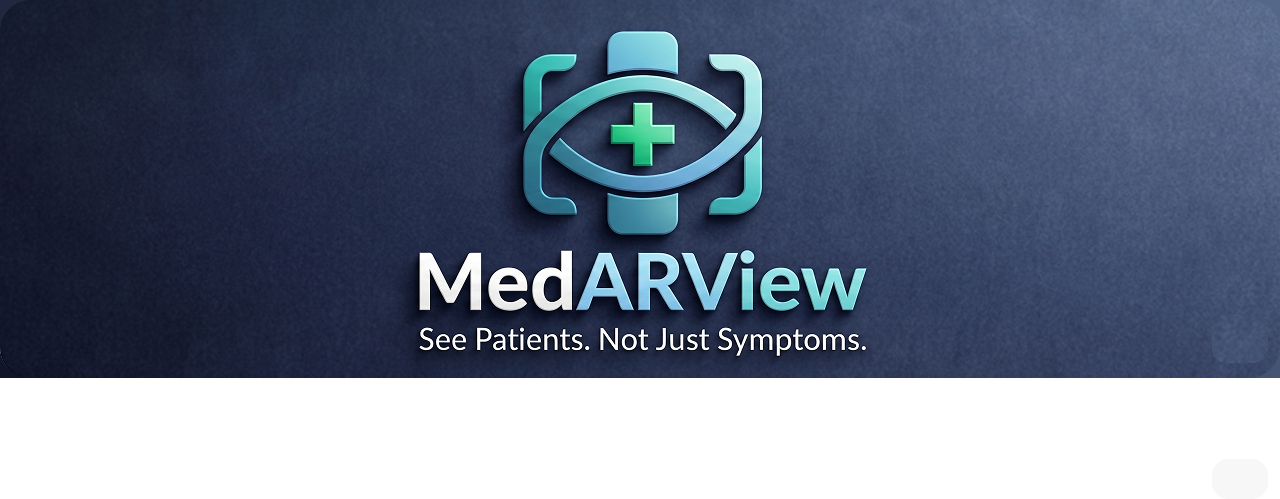
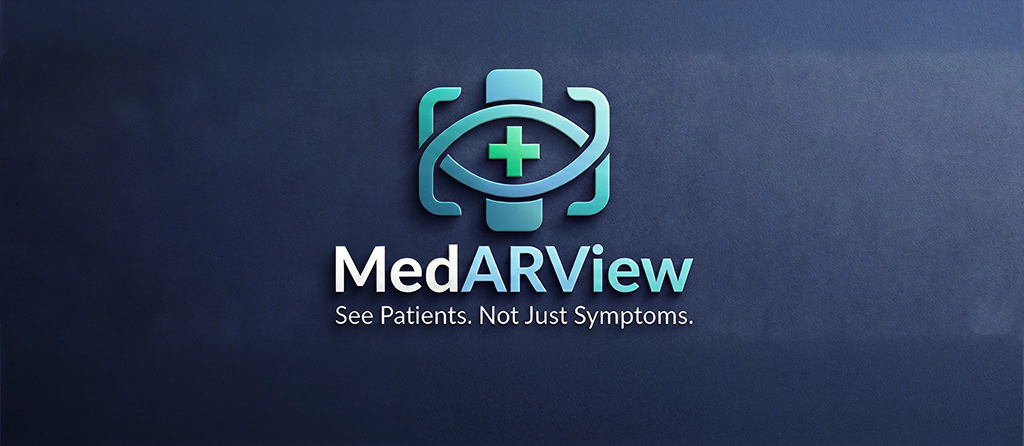
Polish 2D UI: landing hero, simulated shell, Figma mobile page
- Landing: fix flex layout so NewHero displays; stretch column and centered max-width wrapper.
- Simulated HUD: clear color and app shell use landing base #060d14 instead of white.
- Mobile unsupported: implement Figma node 7-451 (white frame, CELL background art, copy, pill button); add bundled mobile-unsupported-bg.png; wire Go Back to history or landing; narrow viewports open this screen on load; shell scroll matches landing.
- Refresh NewHero.png asset.

Made-with: Cursor

diff --git a/src/UnsupportedMobilePage.jsx b/src/UnsupportedMobilePage.jsx
@@ -1,43 +1,150 @@
-export default function UnsupportedMobilePage() {
+import cellBackground from './assets/mobile-unsupported-bg.png'
+
+/**
+ * Small-viewport screen from Figma (node 7:451): white shell, CELL background art,
+ * headline + subcopy + primary pill button. Rutledge → system UI stack (no webfont in repo).
+ */
+export default function UnsupportedMobilePage({ onGoBack }) {
   return (
-    <main
+    <div
+      data-node-id="7:451"
       style={{
-        width: '100vw',
-        height: '100vh',
-        backgroundColor: '#03080f',
-        backgroundImage: `
-          radial-gradient(ellipse 120% 80% at 50% 20%, rgba(30, 60, 100, 0.45), transparent 55%),
-          radial-gradient(ellipse 90% 60% at 80% 90%, rgba(20, 45, 75, 0.5), transparent 50%),
-          linear-gradient(165deg, #050a12 0%, #0a1522 45%, #060d14 100%)
-        `,
-        backgroundSize: 'cover',
-        backgroundPosition: 'center',
-        display: 'grid',
-        placeItems: 'center',
-        padding: '20px',
-        color: '#f3f8ff',
-        fontFamily: 'Segoe UI, Tahoma, Geneva, Verdana, sans-serif',
+        position: 'relative',
+        minHeight: '100vh',
+        width: '100%',
+        boxSizing: 'border-box',
+        backgroundColor: '#ffffff',
+        overflow: 'hidden',
+        fontFamily: '"Segoe UI", system-ui, -apple-system, sans-serif',
       }}
     >
-      <section
+      {/* CELL_BACKGROUND — full-bleed under copy (Figma 8:463) */}
+      <div
+        data-node-id="8:463"
         style={{
-          width: 'min(520px, 100%)',
-          borderRadius: '16px',
-          border: '1px solid rgba(172, 203, 255, 0.45)',
-          background: 'rgba(7, 17, 29, 0.88)',
-          backdropFilter: 'blur(6px)',
-          padding: '24px 20px',
-          textAlign: 'center',
+          position: 'absolute',
+          left: 0,
+          top: 0,
+          width: '100%',
+          height: '100%',
+          minHeight: '100%',
+          pointerEvents: 'none',
         }}
       >
-        <h1 style={{ margin: 0, fontSize: '1.6rem', color: '#cfe8ff' }}>Unsupported Mobile View</h1>
-        <p style={{ margin: '14px 0 0', lineHeight: 1.5 }}>
-          MedARView does not currently support screens under 690px wide.
-        </p>
-        <p style={{ margin: '10px 0 0', lineHeight: 1.5, color: '#9dbfe8' }}>
-          Please open this experience on a tablet, laptop, desktop, or AR-capable headset browser.
-        </p>
-      </section>
-    </main>
+        <img
+          alt=""
+          src={cellBackground}
+          style={{
+            position: 'absolute',
+            inset: 0,
+            width: '100%',
+            height: '100%',
+            objectFit: 'cover',
+            objectPosition: 'center bottom',
+            maxWidth: 'none',
+          }}
+        />
+      </div>
+
+      {/* TEXT BODY — Figma 7:459 */}
+      <div
+        data-node-id="7:459"
+        style={{
+          position: 'relative',
+          zIndex: 1,
+          display: 'flex',
+          flexDirection: 'column',
+          alignItems: 'center',
+          width: '100%',
+          minHeight: '224px',
+          padding: '10px 24px 0',
+          boxSizing: 'border-box',
+        }}
+      >
+        <div
+          data-node-id="7:458"
+          style={{
+            display: 'flex',
+            flexDirection: 'column',
+            alignItems: 'stretch',
+            justifyContent: 'center',
+            gap: '8px',
+            width: '100%',
+            maxWidth: '560px',
+          }}
+        >
+          <p
+            data-node-id="7:454"
+            style={{
+              margin: 0,
+              fontWeight: 700,
+              fontSize: 'clamp(32px, 9vw, 48px)',
+              lineHeight: 1.25,
+              letterSpacing: '-1px',
+              color: '#000000',
+              textAlign: 'center',
+            }}
+          >
+            We&apos;re Sorry
+          </p>
+          <p
+            data-node-id="7:456"
+            style={{
+              margin: 0,
+              fontWeight: 400,
+              fontSize: 'clamp(17px, 4.5vw, 20px)',
+              lineHeight: '26px',
+              color: '#000000',
+              textAlign: 'center',
+            }}
+          >
+            Cell phones not supported
+          </p>
+
+          <div
+            data-node-id="9:470"
+            style={{
+              display: 'flex',
+              flexDirection: 'column',
+              alignItems: 'center',
+              paddingTop: '24px',
+              width: '100%',
+            }}
+          >
+            <button
+              type="button"
+              data-node-id="9:469"
+              onClick={() => onGoBack?.()}
+              style={{
+                width: '100%',
+                maxWidth: '245px',
+                minHeight: '44px',
+                padding: '8px 16px',
+                border: 'none',
+                borderRadius: '26px',
+                backgroundColor: '#269dff',
+                cursor: 'pointer',
+                display: 'flex',
+                alignItems: 'center',
+                justifyContent: 'center',
+              }}
+            >
+              <span
+                data-node-id="9:466"
+                style={{
+                  fontWeight: 700,
+                  fontSize: 'clamp(17px, 4.5vw, 20px)',
+                  lineHeight: '26px',
+                  color: '#ffffff',
+                  whiteSpace: 'nowrap',
+                }}
+              >
+                Go Back
+              </span>
+            </button>
+          </div>
+        </div>
+      </div>
+    </div>
   )
 }

diff --git a/src/LandingPage.jsx b/src/LandingPage.jsx
@@ -3,73 +3,61 @@ import heroImage from './assets/NewHero.png'
 function LandingPage({ onEnterExperience }) {
   return (
     <div style={{
-      width: '100vw',
-      height: '100vh',
+      width: '100%',
+      minHeight: '100vh',
+      boxSizing: 'border-box',
       background: '#060d14',
       color: '#f3f7fc',
       fontFamily: 'Segoe UI, Tahoma, Geneva, Verdana, sans-serif',
       display: 'flex',
       flexDirection: 'column',
-      alignItems: 'center',
+      /* stretch so children’s width:100% resolves to the padded area (center + zero width broke the hero img) */
+      alignItems: 'stretch',
       overflowY: 'auto',
       padding: '40px 20px 0',
     }}>
-      <header
+      <div
         style={{
-          maxWidth: '900px',
           width: '100%',
-          marginBottom: '40px',
-          borderRadius: '12px',
-          border: '1px solid rgba(172, 203, 255, 0.25)',
-          overflow: 'hidden',
-          position: 'relative',
+          maxWidth: '900px',
+          margin: '0 auto 40px',
+          flexShrink: 0,
         }}
       >
-        <img
-          src={heroImage}
-          alt=""
+        <header
           style={{
             width: '100%',
-            height: 'clamp(180px, 32vw, 340px)',
-            objectFit: 'cover',
-            objectPosition: 'center 35%',
-            display: 'block',
-          }}
-        />
-        <div
-          aria-hidden
-          style={{
-            position: 'absolute',
-            inset: 0,
-            pointerEvents: 'none',
-            background:
-              'linear-gradient(180deg, transparent 0%, transparent 35%, rgba(6, 13, 20, 0.55) 78%, rgba(6, 13, 20, 0.92) 100%)',
-          }}
-        />
-        <p
-          style={{
-            position: 'absolute',
-            left: 0,
-            right: 0,
-            bottom: '28px',
-            margin: 0,
-            padding: '0 24px',
-            fontSize: 'clamp(1.5rem, 4vw, 2.25rem)',
-            fontWeight: 700,
-            color: '#cfe8ff',
-            letterSpacing: '0.04em',
-            textAlign: 'center',
-            textShadow: '0 2px 16px rgba(0, 0, 0, 0.65)',
+            borderRadius: '12px',
+            border: '1px solid rgba(172, 203, 255, 0.25)',
+            overflow: 'hidden',
+            position: 'relative',
+            background: '#0a0c10',
           }}
         >
-          MedARView
-        </p>
-      </header>
+          <img
+            src={heroImage}
+            alt="MedARView — See Patients. Not Just Symptoms."
+            width={1200}
+            height={400}
+            style={{
+              width: '100%',
+              height: 'auto',
+              maxHeight: 'min(420px, 42vw)',
+              minHeight: '140px',
+              objectFit: 'contain',
+              objectPosition: 'center center',
+              display: 'block',
+            }}
+          />
+        </header>
+      </div>
 
       {/* Container for text and video */}
       <div style={{
         maxWidth: '900px',
         width: '100%',
+        margin: '0 auto',
+        flexShrink: 0,
       }}>
         {/* Vimeo Video - full width of text container */}
         <div style={{
@@ -169,7 +157,8 @@ function LandingPage({ onEnterExperience }) {
       <div style={{
         maxWidth: '900px',
         width: '100%',
-        marginTop: '20px'
+        margin: '20px auto 0',
+        flexShrink: 0,
       }}>
         <button
           onClick={onEnterExperience}

diff --git a/src/App.jsx b/src/App.jsx
@@ -186,7 +186,9 @@ function XRActiveFallback({
 }
 
 function App() {
-  const [phase, setPhase] = useState('landing')
+  const [phase, setPhase] = useState(() =>
+    typeof window !== 'undefined' && window.innerWidth < 690 ? 'unsupported-mobile' : 'landing'
+  )
   const [viewportWidth, setViewportWidth] = useState(() => window.innerWidth)
   const [onboardingStep, setOnboardingStep] = useState(3)
   const [vitals, setVitals] = useState({ systolic: 120, diastolic: 80, spo2: 98 })
@@ -206,7 +208,7 @@ function App() {
   })
   const sessionStartRef = useRef(Date.now())
   const sessionBudgetStartRef = useRef(null)
-  const phaseRef = useRef('landing')
+  const phaseRef = useRef(phase)
   const stepRef = useRef(2)
   const speakerRef = useRef('Doctor')
   const conversationRef = useRef([])
@@ -275,6 +277,14 @@ function App() {
       return
     }
     setPhase('onboarding')
+  }
+
+  const handleUnsupportedMobileGoBack = () => {
+    if (typeof window !== 'undefined' && window.history.length > 1) {
+      window.history.back()
+      return
+    }
+    setPhase('landing')
   }
 
   useEffect(() => {
@@ -472,11 +482,17 @@ function App() {
   const simulatedActiveUi = arSupport.checked && !arSupport.supported && phase === 'active'
 
   return (
-    <main className={`app-shell${simulatedActiveUi ? ' app-shell--simulated' : ''}`}>
+    <main
+      className={`app-shell${simulatedActiveUi ? ' app-shell--simulated' : ''}${
+        phase === 'landing' || phase === 'unsupported-mobile' ? ' app-shell--landing' : ''
+      }`}
+    >
       {phase === 'landing' && (
         <LandingPage onEnterExperience={handleEnterExperience} />
       )}
-      {phase === 'unsupported-mobile' && <UnsupportedMobilePage />}
+      {phase === 'unsupported-mobile' && (
+        <UnsupportedMobilePage onGoBack={handleUnsupportedMobileGoBack} />
+      )}
 
       {phase !== 'ended' && phase !== 'landing' && phase !== 'unsupported-mobile' && arSupport.checked && arSupport.supported && (
         <div className="ar-controls">

diff --git a/src/SimulatedHUD.jsx b/src/SimulatedHUD.jsx
@@ -9,6 +9,9 @@ import patientVideoUrl from './assets/patient.mp4'
 
 const PATIENT_BG_FALLBACK = '#1e3248'
 
+/** Match `LandingPage` root background so simulation feels in the same environment */
+const SIM_SCENE_BACKGROUND = '#060d14'
+
 const hudOffset = new Vector3(0, 0.05, -0.72)
 
 const panelColor = new Color('#091522')
@@ -59,8 +62,8 @@ function SimulatedHUD({
     const prevClear = new Color()
     gl.getClearColor(prevClear)
     const prevAlpha = gl.getClearAlpha()
-    scene.background = new Color('#ffffff')
-    gl.setClearColor('#ffffff', 1)
+    scene.background = new Color(SIM_SCENE_BACKGROUND)
+    gl.setClearColor(SIM_SCENE_BACKGROUND, 1)
     return () => {
       scene.background = prevBg
       gl.setClearColor(prevClear, prevAlpha)

diff --git a/src/App.css b/src/App.css
@@ -5,9 +5,17 @@
   overflow: hidden;
 }
 
-/* Simulated (non-WebXR) HUD: white letterboxing / shell behind canvas */
+/* Landing scrolls as a normal page; default overflow:hidden clipped the hero flex layout */
+.app-shell--landing {
+  overflow-x: hidden;
+  overflow-y: auto;
+  height: auto;
+  min-height: 100vh;
+}
+
+/* Simulated (non-WebXR) HUD: same base as landing page */
 .app-shell--simulated {
-  background: #ffffff;
+  background: #060d14;
 }
 
 .ar-controls {
